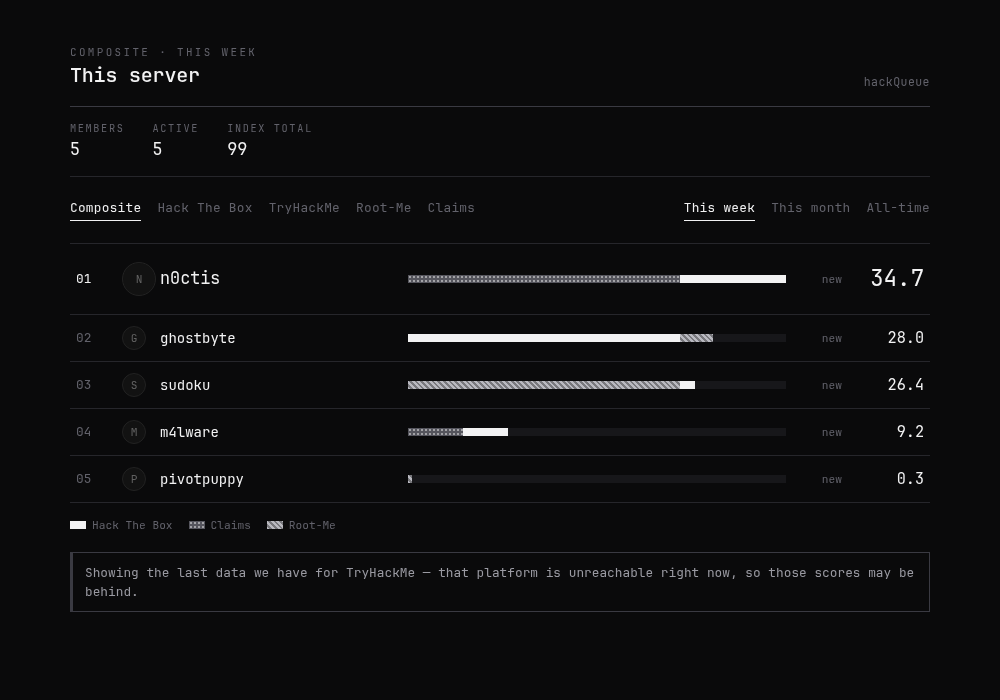
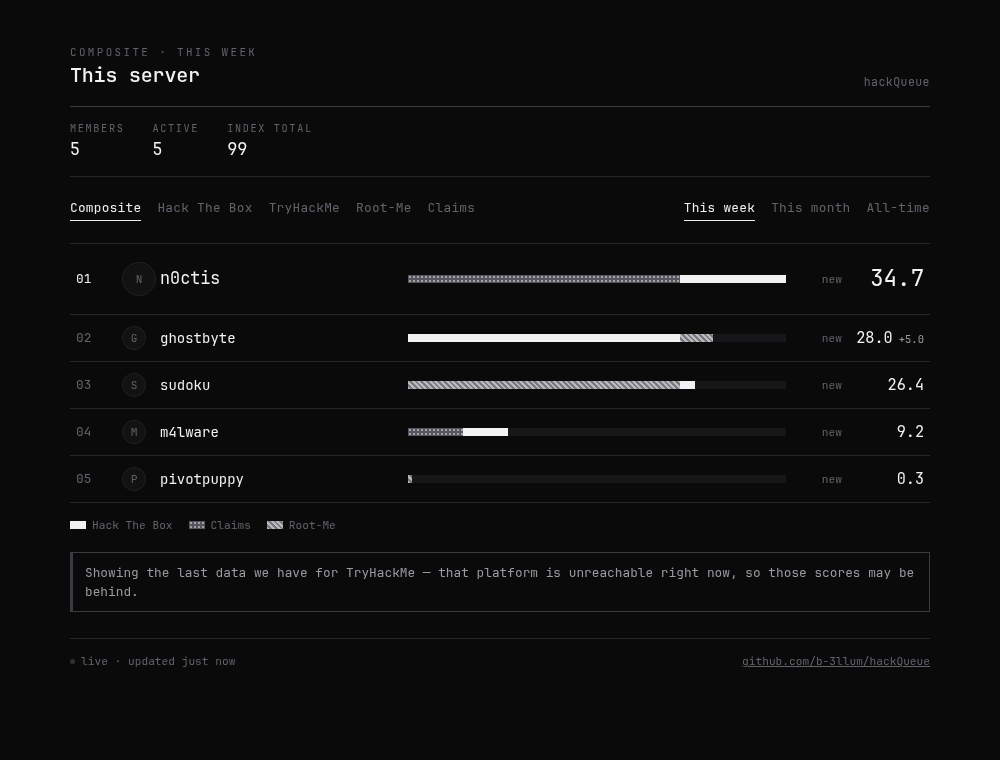
feat(web): make the board feel live — motion that reports, not decorates
- footer pulses 'live · updated 40s ago' with a ticker that counts real
  seconds since the last successful poll, and goes still when data is stale
- when a member's score moves between polls, their row flashes once and shows
  the delta (+5.0) — the only reason anything animates here
- sparkline is interrogable: hover reads out the date and score under the
  cursor
- j/k walks the board, enter opens a member (the audience expects vim keys)
- activity bars respond to the pointer

Every moving thing carries information; nothing moves for its own sake.

diff --git a/hackqueue/web/static/app.js b/hackqueue/web/static/app.js
@@ -9,6 +9,9 @@ const PERIODS = [
 ];
 
 const state = { board: "composite", period: "weekly", data: null, member: null };
+// last score we displayed per member, so a refresh can show what moved
+const lastSeen = new Map();
+let lastUpdate = null;
 const $ = (id) => document.getElementById(id);
 
 // ── board ────────────────────────────────────────────────────────────────
@@ -21,6 +24,7 @@ async function load() {
     return;
   }
   state.data = await res.json();
+  lastUpdate = Date.now();
   render();
 }
 
@@ -52,7 +56,27 @@ function render() {
   $("notice").innerHTML = d.stale.length
     ? `<div class="notice">Showing the last data we have for ${d.stale.join(", ")} — that platform is unreachable right now, so those scores may be behind.</div>`
     : "";
-  $("updated").textContent = `updated ${new Date(d.generated_at).toLocaleString()}`;
+  tickClock();
+}
+
+// The pulse says "this data is live"; it stops when we've lost the server.
+// The ticker counts real seconds since the last successful poll.
+function tickClock() {
+  const el = $("updated");
+  if (!lastUpdate) return;
+  const secs = Math.round((Date.now() - lastUpdate) / 1000);
+  const stale = secs > 180;
+  el.className = stale ? "live stale" : "live";
+  el.textContent = stale ? `last update ${ago(secs)}` : `live · updated ${ago(secs)}`;
+  el.title = new Date(lastUpdate).toLocaleString();
+}
+
+function ago(secs) {
+  if (secs < 5) return "just now";
+  if (secs < 60) return `${secs}s ago`;
+  const mins = Math.round(secs / 60);
+  if (mins < 60) return `${mins}m ago`;
+  return `${Math.round(mins / 60)}h ago`;
 }
 
 function renderTabs(id, items, active, onPick) {
@@ -165,6 +189,21 @@ function renderRows(d) {
       score.className = "score";
       score.textContent =
         d.board === "composite" ? row.value.toFixed(1) : Math.round(row.value).toLocaleString();
+
+      // If this member's score moved since the last refresh, say so — the
+      // flash and the delta are the only reason to animate anything here.
+      const key = `${d.board}:${d.period}:${row.user_id}`;
+      const before = lastSeen.get(key);
+      if (before !== undefined && row.value > before) {
+        el.classList.add("changed");
+        score.classList.add("rising");
+        const delta = document.createElement("span");
+        delta.className = "delta";
+        const gained = row.value - before;
+        delta.textContent = `+${d.board === "composite" ? gained.toFixed(1) : Math.round(gained)}`;
+        score.appendChild(delta);
+      }
+      lastSeen.set(key, row.value);
 
       el.append(rank, avatar, who, bar, move, score);
       return el;
@@ -385,8 +424,34 @@ function sparkline(series) {
   area.setAttribute("d", `${d} L${w},${h} L0,${h} Z`);
   const line = document.createElementNS("http://www.w3.org/2000/svg", "path");
   line.setAttribute("d", d);
-  svg.append(area, line);
-  return svg;
+  const cursor = document.createElementNS("http://www.w3.org/2000/svg", "line");
+  cursor.setAttribute("class", "cursor");
+  cursor.setAttribute("y1", "0");
+  cursor.setAttribute("y2", String(h));
+  cursor.setAttribute("opacity", "0");
+  svg.append(area, line, cursor);
+
+  // Hover reads the series: date + score under the pointer. The chart is only
+  // worth drawing if you can interrogate it.
+  const wrap = document.createElement("div");
+  wrap.className = "spark-wrap";
+  const readout = document.createElement("div");
+  readout.className = "spark-read";
+  wrap.append(svg, readout);
+  wrap.addEventListener("pointermove", (e) => {
+    const box = svg.getBoundingClientRect();
+    const frac = Math.min(Math.max((e.clientX - box.left) / box.width, 0), 1);
+    const i = Math.round(frac * (series.length - 1));
+    const [when, value] = series[i];
+    cursor.setAttribute("x1", String(pts[i][0]));
+    cursor.setAttribute("x2", String(pts[i][0]));
+    cursor.setAttribute("opacity", "1");
+    readout.textContent = `${new Date(when).toLocaleDateString()} · ${value.toLocaleString()}`;
+  });
+  wrap.addEventListener("pointerleave", () => {
+    cursor.setAttribute("opacity", "0");
+  });
+  return wrap;
 }
 
 function renderActivity(weeks) {
@@ -413,8 +478,18 @@ function escapeHtml(s) {
 $("scrim").addEventListener("click", closeMember);
 $("panel-close").addEventListener("click", closeMember);
 document.addEventListener("keydown", (e) => {
-  if (e.key === "Escape") closeMember();
+  if (e.key === "Escape") return closeMember();
+  // j/k walk the board (vim keys — the audience will expect them)
+  if (e.key !== "j" && e.key !== "k") return;
+  const rows = [...document.querySelectorAll(".row")];
+  if (!rows.length) return;
+  const at = rows.indexOf(document.activeElement);
+  const next = e.key === "j" ? Math.min(at + 1, rows.length - 1) : Math.max(at - 1, 0);
+  rows[at === -1 ? 0 : next].focus();
 });
+
+// The ticker runs even between polls, so "updated 40s ago" is always honest.
+setInterval(tickClock, 1000);
 
 load();
 setInterval(load, 120000);

diff --git a/hackqueue/web/static/app.css b/hackqueue/web/static/app.css
@@ -323,6 +323,72 @@ a { color: inherit; }
 }
 .empty code { color: var(--fg); }
 
+/* ── signs of life ────────────────────────────────────────────────────
+ * Every moving thing here reports something true: the pulse means the data
+ * is fresh, the flash means THAT row just changed, the ticker counts real
+ * seconds since the last poll. Nothing moves for decoration.
+ */
+
+.live {
+  display: inline-flex;
+  align-items: center;
+  gap: 6px;
+}
+.live::before {
+  content: "";
+  width: 5px;
+  height: 5px;
+  border-radius: 50%;
+  background: var(--fg-dim);
+  animation: pulse 2.4s ease-in-out infinite;
+}
+.live.stale::before {
+  animation: none;
+  background: var(--fg-faint);
+}
+@keyframes pulse {
+  0%, 100% { opacity: 0.25; }
+  50% { opacity: 1; }
+}
+
+/* a row whose score moved since the last refresh */
+@keyframes flash {
+  from { background: var(--sunk); }
+  to { background: none; }
+}
+.row.changed { animation: flash 2.2s ease-out; }
+
+.delta {
+  font-size: 0.66rem;
+  color: var(--fg-dim);
+  margin-left: 6px;
+}
+
+/* the score counts up to its value — you can watch someone gain */
+.score { transition: color 0.3s; }
+.score.rising { color: var(--fg); }
+
+/* sparkline hover readout */
+.spark-wrap { position: relative; }
+.spark-read {
+  position: absolute;
+  top: 0;
+  right: 0;
+  font-size: 0.65rem;
+  color: var(--fg-dim);
+  background: var(--bg);
+  padding: 0 2px;
+  pointer-events: none;
+  opacity: 0;
+  transition: opacity 0.12s;
+}
+.spark-wrap:hover .spark-read { opacity: 1; }
+.spark .cursor { stroke: var(--fg-faint); stroke-width: 0.6; }
+
+/* activity strip: bars react to the pointer */
+.activity div { transition: background 0.15s, transform 0.15s; transform-origin: bottom; }
+.activity div:hover { transform: scaleY(1.08); background: var(--fg) !important; }
+
 footer {
   margin-top: 26px;
   padding-top: 14px;

diff --git a/hackqueue/web/static/board.html b/hackqueue/web/static/board.html
@@ -30,7 +30,7 @@
   <div id="notice"></div>
 
   <footer>
-    <span id="updated"></span>
+    <span id="updated" class="live"></span>
     <a href="https://github.com/b-3llum/hackQueue">github.com/b-3llum/hackQueue</a>
   </footer>
 </div>

diff --git a/README.md b/README.md
@@ -42,10 +42,12 @@ colourblindness, where colour-coding wouldn't.*
 - **Web leaderboard** — `/config web on` publishes the server's board as a
   page anyone can open (opt-in, per server). Light/dark, mobile-friendly, and
   it shows platform contributions as a stacked bar. **Click any name** for that
-  member's detail: per-platform scores with a 60-day score sparkline, HTB
-  breakdown (machine owns, Pro Lab flags, bloods), recent solves linked to the
-  box, a 12-week activity strip, solve streak, and approved claims. Boards also
-  show rank movement since the last period and a server summary strip.
+  member's detail: per-platform scores with a 60-day score sparkline (hover it
+  to read any point), HTB breakdown (machine owns, Pro Lab flags, bloods),
+  recent solves linked to the box, a 12-week activity strip, solve streak, and
+  approved claims. Boards show rank movement since the last period, a server
+  summary strip, and a live ticker — when someone's score moves between polls,
+  their row flashes with the delta. `j`/`k` walks the board.
 - **One-command setup** — `/setup` creates the channels the bot needs
   (`#leaderboard` for recaps, a moderators-only `#claim-review`) and wires the
   config up in one go.